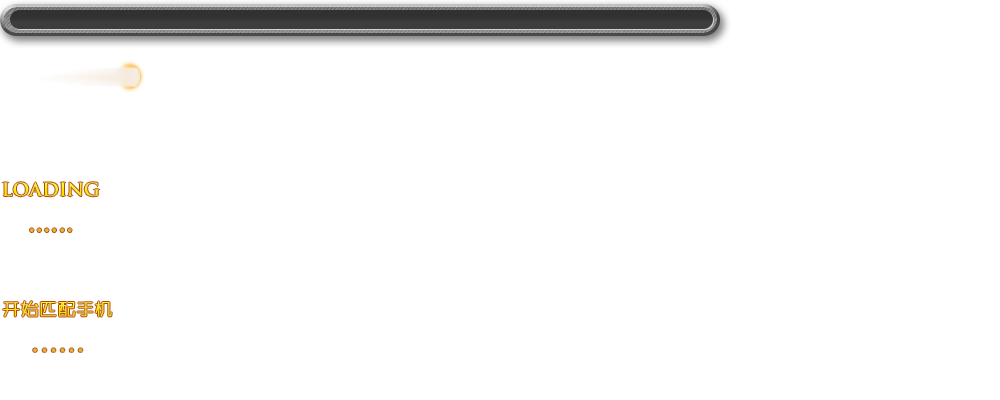
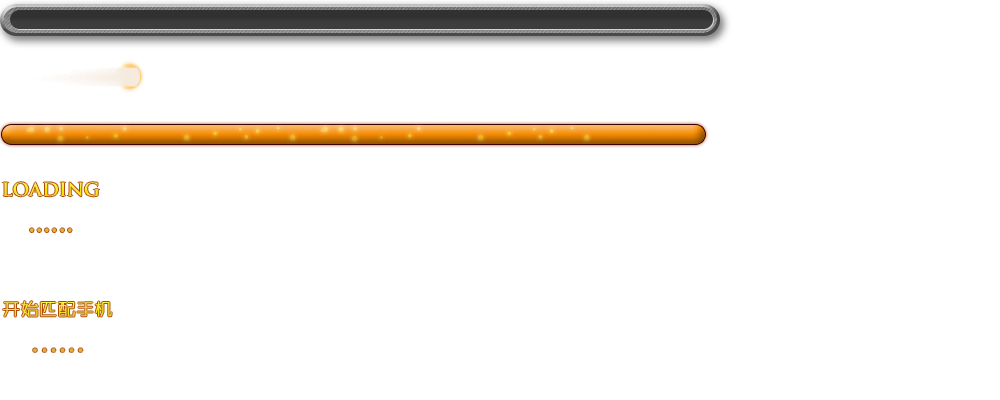
hc

Changed region(s): [[0.0, 0.3, 0.713, 0.39]]

diff --git a/public/stylesheets/index.css b/public/stylesheets/index.css
@@ -30,16 +30,19 @@ body.wrapper{
 }
 .papa-wrapper #find_phone{
 	display: block;
-	width: 196px;
-	height: 60px;
+	width: 254px;
+	height: 76px;
 	margin: 100px auto 0;
-	background: url('../images/sprites.png') no-repeat 12px -650px;
+	background: url('../images/button.png') no-repeat 0px 9px;
 	overflow: hidden;
 	text-indent: -9999px;
 }
+.papa-wrapper #find_phone:hover{
+	background-position: 0 -111px;
+}
 .papa-wrapper #token_area{
 	display:none;
-	width: 400px;
+	width: 600px;
 	height: 160px;
 	margin: 0 auto;
 }
@@ -52,27 +55,33 @@ body.wrapper{
 	-webkit-text-stroke: .4px #b35607;
 }
 .papa-wrapper .action{
-	width: 420px;
+	width: 600px;
 	margin: 20px auto 0;
 	height: 60px;
 }
 .papa-wrapper .action #token_yes{
 	display: block;
-	width: 196px;
-	height: 60px;
+	width: 254px;
+	height: 76px;
 	float: left;
-	background: url('../images/sprites.png') no-repeat 12px -410px;
+	background: url('../images/button.png') no-repeat 0px -231px;
 	overflow: hidden;
 	text-indent: -9999px;
 }
+.papa-wrapper .action #token_yes:hover{
+	background-position: 0 -351px;
+}
 .papa-wrapper .action #token_no{
 	display: block;
-	width: 196px;
-	height: 60px;
+	width: 254px;
+	height: 76px;
 	float: right;
-	background: url('../images/sprites.png') no-repeat 12px -530px;
+	background: url('../images/button.png') no-repeat 0px -471px;
 	overflow: hidden;
 	text-indent: -9999px;
+}
+.papa-wrapper .action #token_no:hover{
+	background-position: 0 -591px;
 }
 .beat-wrapper{
 	position: relative;

diff --git a/public/javascripts/index.js b/public/javascripts/index.js
@@ -14,13 +14,13 @@
 			if($(this).hasClass("disable")){
 				return false;
 			}
-			$(this).remove();
-			$('div.binding').show();
+			$(this).fadeOut();
+			$('div.binding').fadeIn();
 			//收到手机发来的超声波事件的回调
 			sserver.on("message",function(message){
 				$("#token").text(message);
-				$("div.binding").hide();
-				$("#token_area").show();
+				$("div.binding").fadeOut();
+				$("#token_area").fadeIn();
 			});
 			//超声波服务开启
 			sserver.start();

diff --git a/public/stylesheets/preload.css b/public/stylesheets/preload.css
@@ -8,16 +8,15 @@ body{
 }
 .bar-frame{
     background: url('../images/progress.png') no-repeat 0 0;
-    width: 703px;
+    width: 704px;
     height: 19px;
-    padding: 10px 18px 19px 10px;
+    padding: 10px 18px 19px 9px;
 }
 .progress{
     height: 25px;
-    width: 100%;
+    background: url('../images/progress.png') no-repeat 0 -123px;
     margin-top: -3px;
     border-radius: 10px;
-    background-color: orange;
     position: relative;
     overflow-x: hidden;
     z-index: 9;

diff --git a/public/javascripts/preload.js b/public/javascripts/preload.js
@@ -32,7 +32,7 @@ Utils.checkToken();
 				if(current >= 100){
 					setTimeout(function(){
 						socket.emit("post preload",{token:token});
-						document.location.href="/playerselect";
+						// document.location.href="/playerselect";
 					},3000);
 				}
 				current++;
